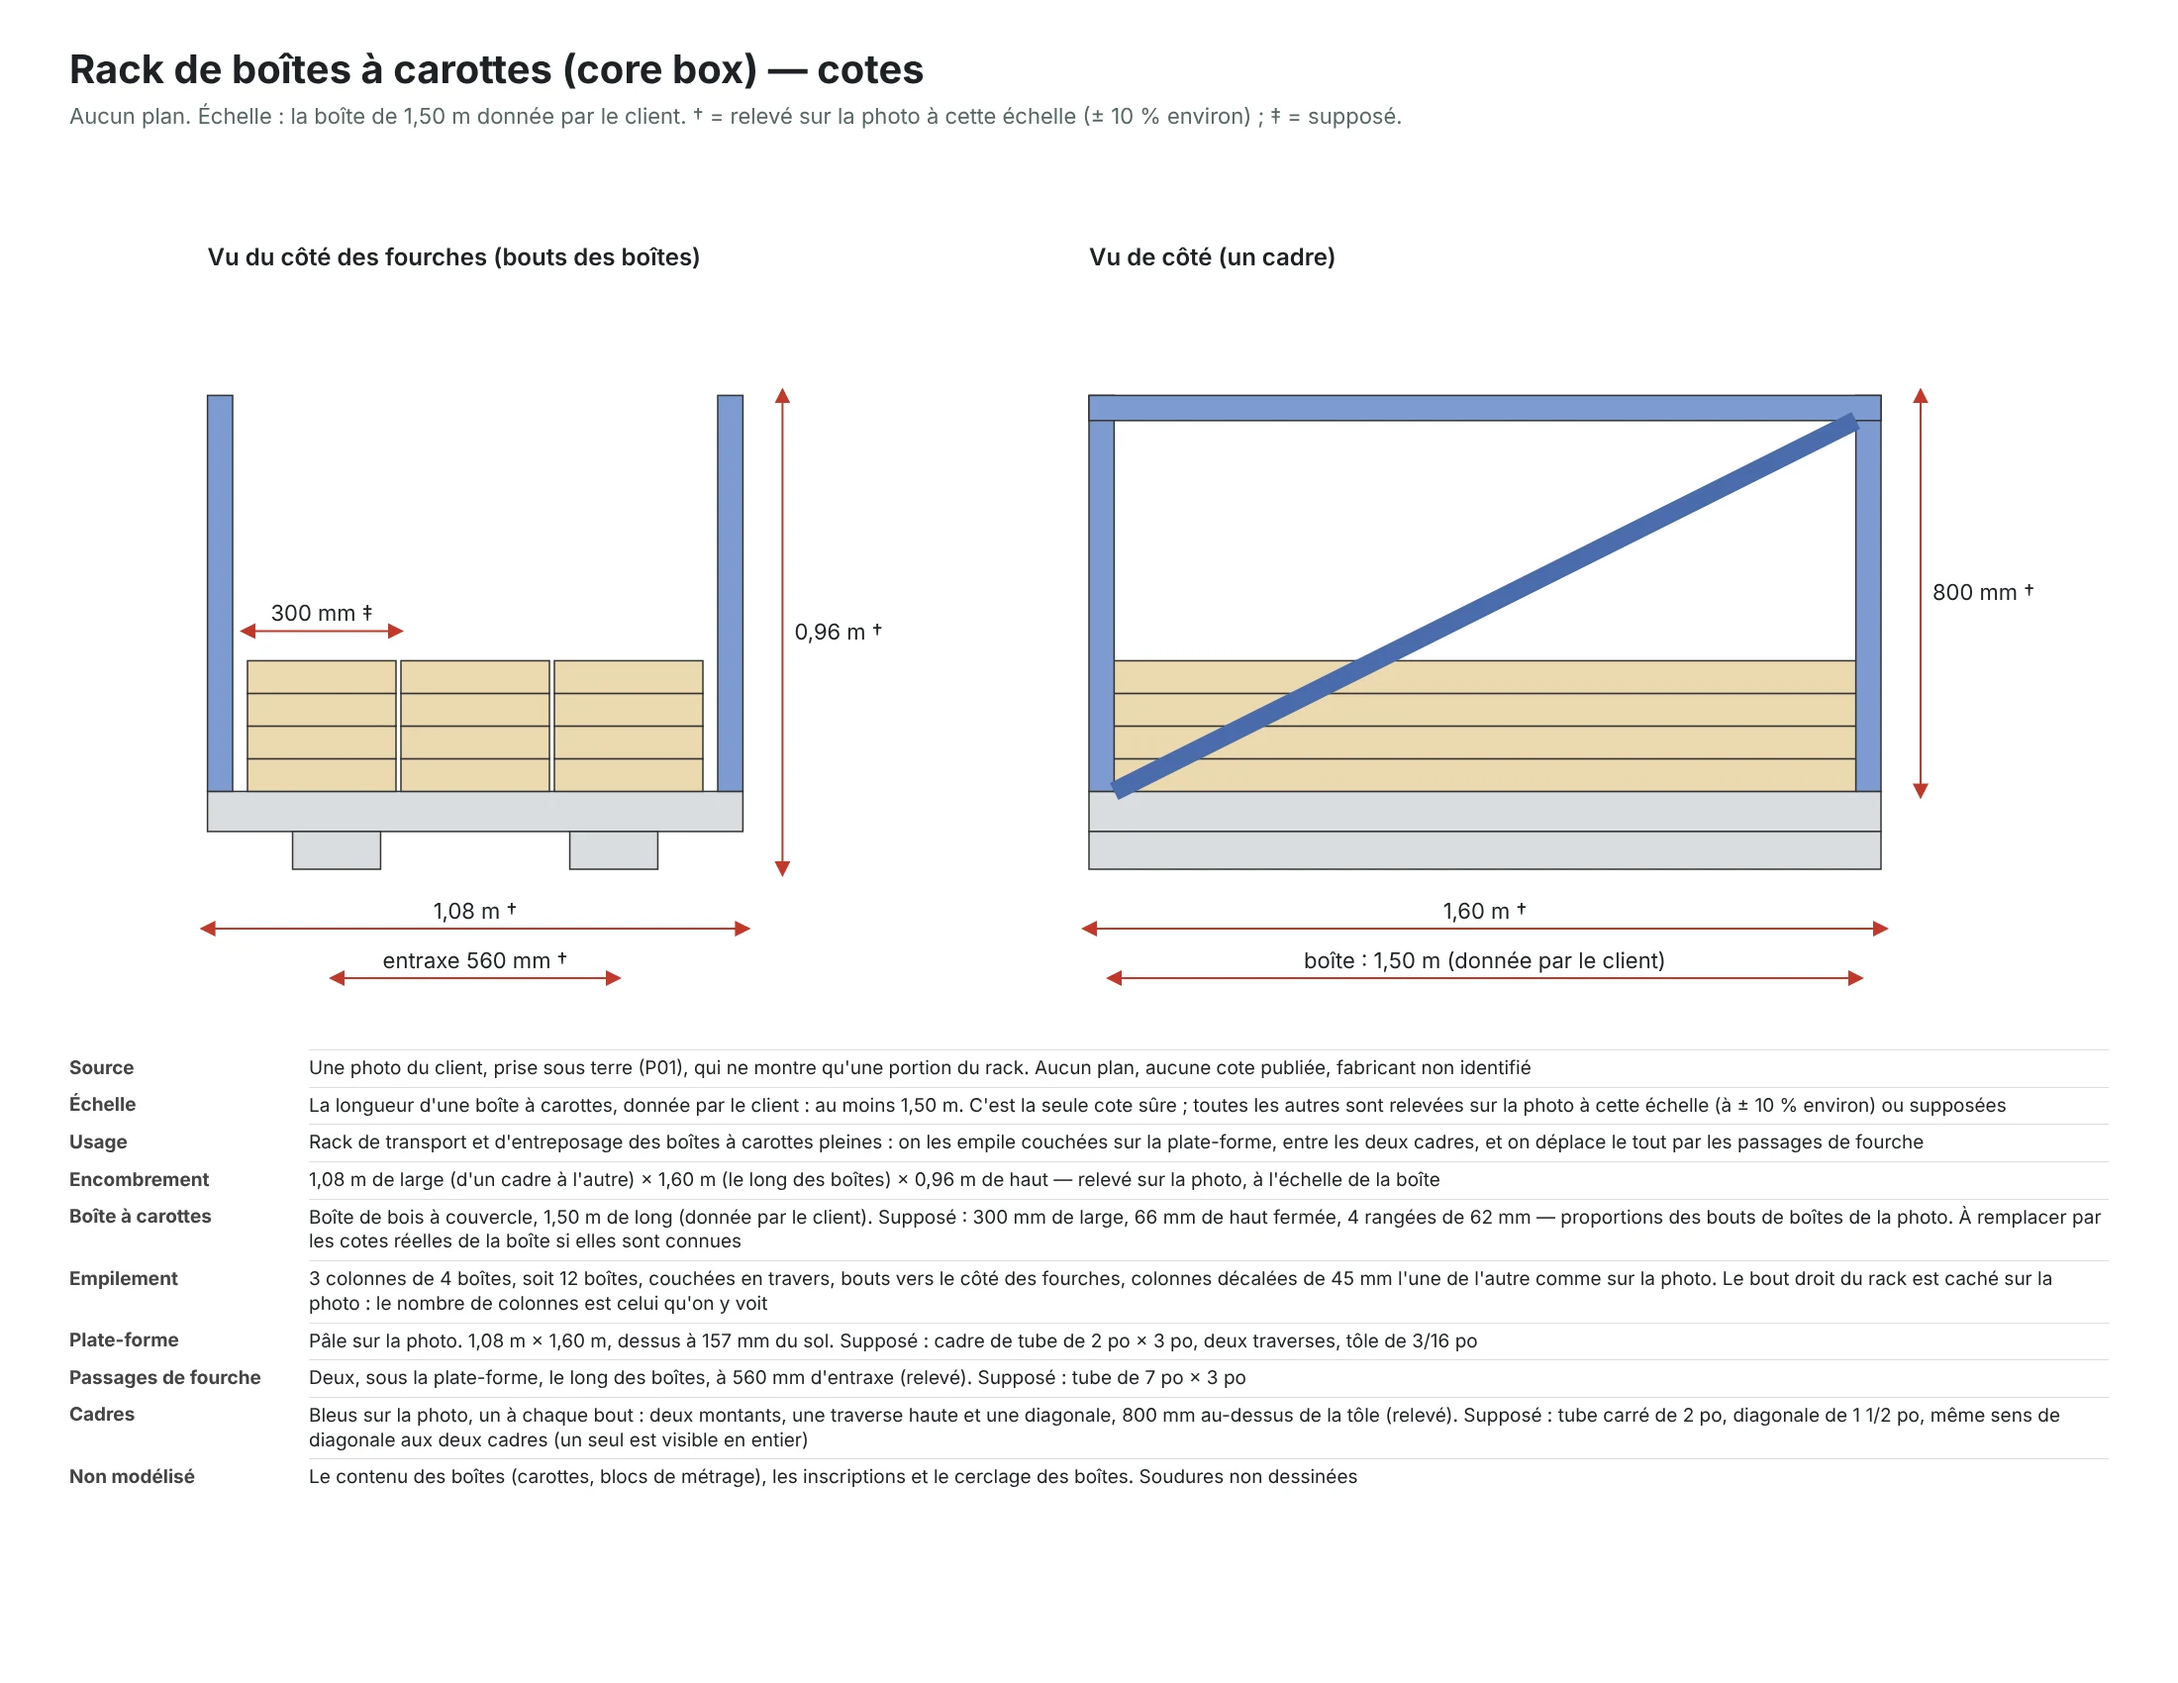
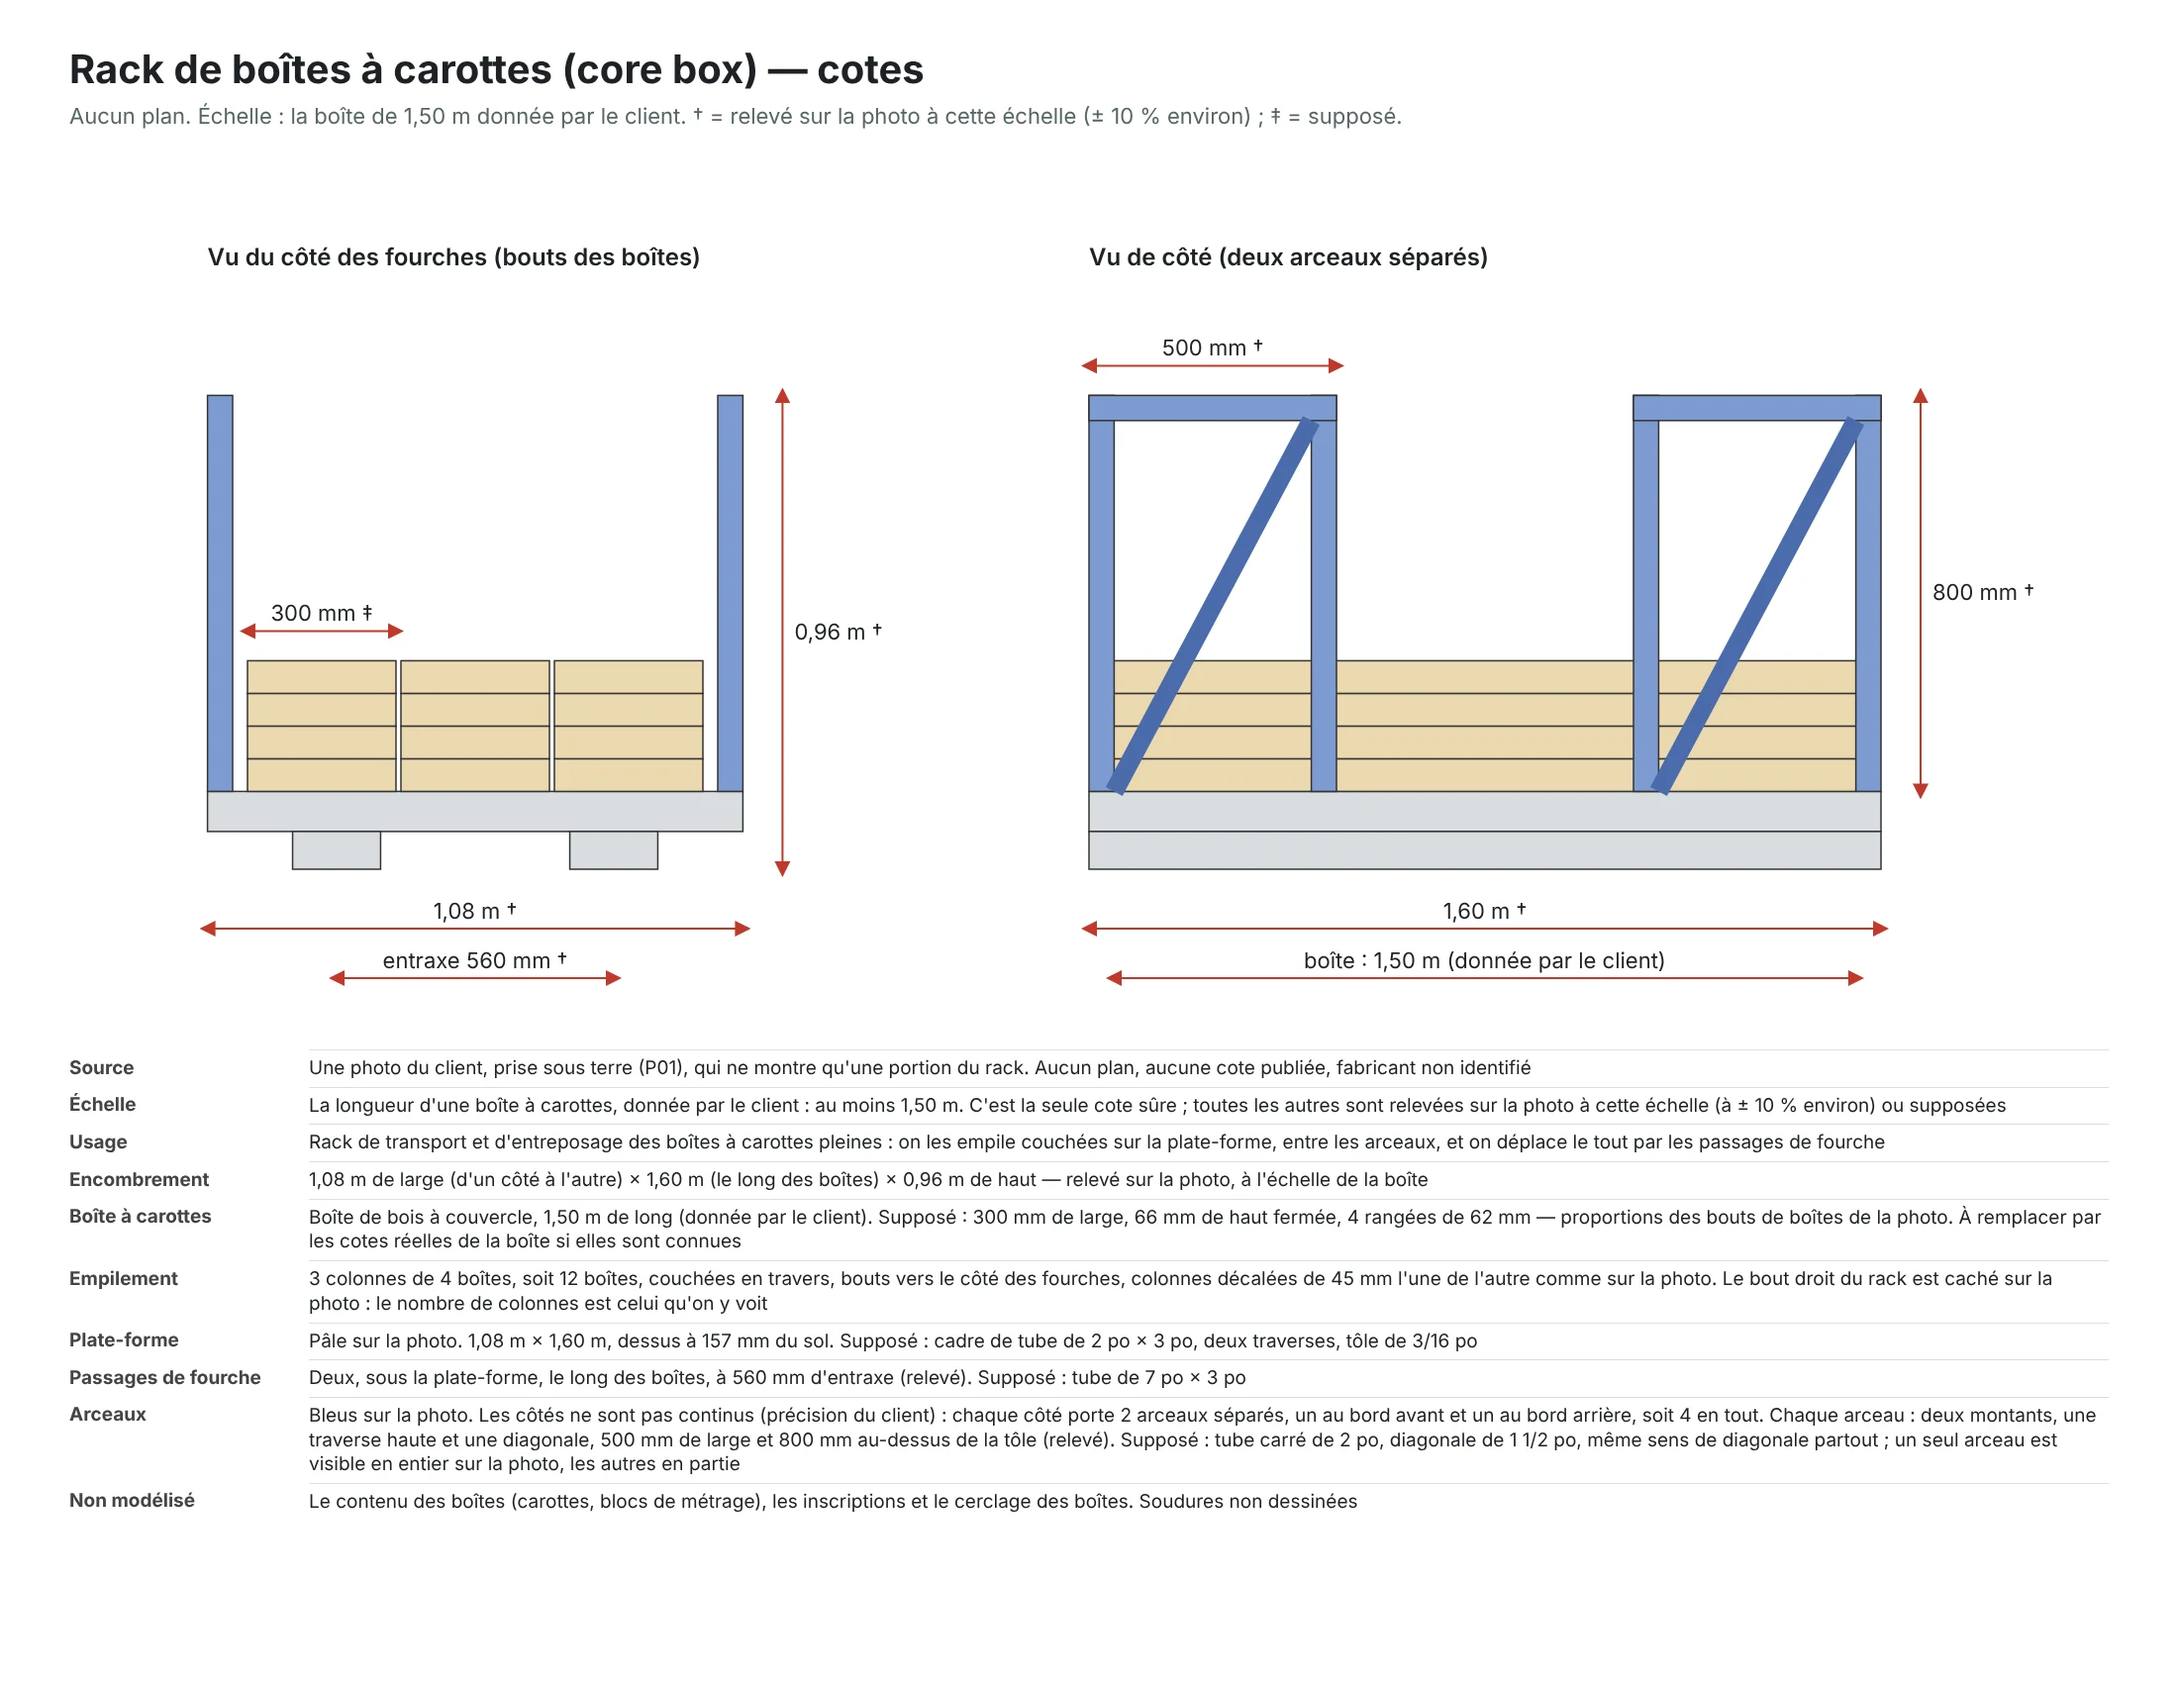
Rack de boîtes à carottes : côtés non continus, deux arceaux séparés par côté (précision du client)
Claude-Session: https://claude.ai/code/session_015N4WssuUmdjikh97GVqZ3B

diff --git a/src/models/rack-core-box/index.js b/src/models/rack-core-box/index.js
@@ -1,6 +1,7 @@
 // Rack de boîtes à carottes (core box) : plate-forme d'acier à passages de
-// fourche, fermée aux deux bouts par un cadre de tube (deux montants, une
-// traverse haute, une diagonale), où l'on empile les boîtes à carottes pleines.
+// fourche, bordée de chaque côté par deux arceaux de tube séparés (chacun :
+// deux montants, une traverse haute, une diagonale) ; les côtés ne sont pas
+// continus (précision du client). On y empile les boîtes à carottes pleines.
 // Reconstitué d'après une photo du client, prise sous terre (P01) : la photo
 // ne montre qu'une portion du rack. Aucun plan, aucune cote publiée.
 //
@@ -9,16 +10,16 @@
 //
 // Relevé sur la photo, à cette échelle (à ± 10 % environ) : les boîtes sont
 // couchées en travers, bouts vers le côté des fourches, en colonnes côte à
-// côte entre les deux cadres ; trois colonnes de quatre boîtes sont visibles,
-// décalées d'une colonne à l'autre ; plate-forme pâle, cadres bleus, deux
-// passages de fourche sous la plate-forme.
+// côte entre les arceaux ; trois colonnes de quatre boîtes sont visibles,
+// décalées d'une colonne à l'autre ; plate-forme pâle, arceaux bleus d'environ
+// 0,5 m de large, deux passages de fourche sous la plate-forme.
 //
 // Supposé : la largeur et la hauteur d'une boîte (boîte de bois à quatre
 // rangées), les sections des tubes, l'épaisseur de la tôle, le sens de la
-// diagonale du cadre que la photo ne montre pas en entier, le nombre total de
-// colonnes (le bout droit du rack est caché).
+// diagonale des arceaux que la photo ne montre pas en entier, le nombre total
+// de colonnes (le bout droit du rack est caché).
 //
-// Repère : X dans la largeur du rack (d'un cadre à l'autre), Y vers le haut
+// Repère : X dans la largeur du rack (d'un côté à l'autre), Y vers le haut
 // (sol à 0), Z le long des boîtes, +Z du côté des bouts de boîtes visibles sur
 // la photo (côté des fourches). Cotes en millimètres, modèle en mètres.
 import * as THREE from 'three';
@@ -42,23 +43,23 @@ export const BOITE = {
 /** Empilement relevé sur la photo : colonnes côte à côte, boîtes par colonne, décalage en Z de chaque colonne. */
 export const PILE = { colonnes: 3, etages: 4, jeu: 10, decalage: [-45, 0, 45] };
 
-/** Tube carré des cadres et tube de la diagonale (supposés). */
+/** Tube carré des arceaux et tube de la diagonale (supposés). */
 export const TUBE = { cote: 2 * IN, diagonale: 1.5 * IN };
 /** Plate-forme : cadre de tube rectangulaire couvert d'une tôle (sections supposées). */
 export const BASE = {
-  jeuCote: 30, // jeu entre la pile et chaque cadre
+  jeuCote: 30, // jeu entre la pile et les arceaux
   profond: 1600, // le long des boîtes : 1,5 m plus le décalage des colonnes
   cadre: { haut: 3 * IN, large: 2 * IN },
   tole: 3 / 16 * IN,
 };
 /** Passages de fourche sous la plate-forme, le long des boîtes (relevés sur la photo, section supposée). */
 export const FOURCHE = { large: 7 * IN, haut: 3 * IN, paroi: 3 / 16 * IN, entraxe: 560 };
-/** Hauteur des cadres au-dessus de la tôle (relevée sur la photo). */
-export const CADRE = { haut: 800 };
+/** Arceaux : hauteur au-dessus de la tôle et largeur hors tout, le long des boîtes (relevées sur la photo) ; deux par côté. */
+export const CADRE = { haut: 800, large: 500, parCote: 2 };
 
 /** Largeur de la pile de boîtes. */
 export const largeurPile = () => PILE.colonnes * BOITE.large + (PILE.colonnes - 1) * PILE.jeu;
-/** Largeur hors tout de la plate-forme (d'un cadre à l'autre, tubes compris). */
+/** Largeur hors tout de la plate-forme (d'un côté à l'autre, tubes compris). */
 export const largeurBase = () => largeurPile() + 2 * BASE.jeuCote + 2 * TUBE.cote;
 /** Hauteur du dessus de la tôle au-dessus du sol. */
 export const dessusTole = () => FOURCHE.haut + BASE.cadre.haut + BASE.tole;
@@ -121,22 +122,22 @@ function passage(S, matiere) {
   return S.group(S.extrude(contour, BASE.profond * MM, matiere, { holes: [trou] }));
 }
 
-/** Repère 3 : montant d'un cadre, debout sur la tôle. */
+/** Repère 3 : montant d'un arceau, debout sur la tôle. */
 function montant(S, matiere) {
   const c = TUBE.cote / 2;
   return S.group(pave(S, -c, c, 0, CADRE.haut - TUBE.cote, -c, c, matiere, 3));
 }
 
-/** Repère 4 : traverse haute d'un cadre, posée sur les deux montants. */
+/** Repère 4 : traverse haute d'un arceau, posée sur ses deux montants. */
 function traverse(S, matiere) {
-  const c = TUBE.cote / 2, D = BASE.profond / 2;
+  const c = TUBE.cote / 2, D = CADRE.large / 2;
   return S.group(pave(S, -c, c, CADRE.haut - TUBE.cote, CADRE.haut, -D, D, matiere, 3));
 }
 
-/** Repère 5 : diagonale d'un cadre, du pied du montant avant à la tête du montant arrière. */
+/** Repère 5 : diagonale d'un arceau, du pied du montant avant à la tête du montant arrière. */
 function diagonale(S, matiere) {
   const c = TUBE.cote, d = TUBE.diagonale / 2;
-  const z0 = BASE.profond / 2 - c, z1 = -BASE.profond / 2 + c, y0 = 0, y1 = CADRE.haut - c;
+  const z0 = CADRE.large / 2 - c, z1 = -CADRE.large / 2 + c, y0 = 0, y1 = CADRE.haut - c;
   // Coupes droites contre la face des montants ; vy : épaisseur du tube mesurée à la verticale.
   const vy = (2 * d) / Math.cos(Math.atan2(y1 - y0, z0 - z1));
   const profil = [[z0, y0], [z0, y0 + vy], [z1, y1], [z1, y1 - vy]].map(([z, y]) => [z * MM, y * MM]);
@@ -181,11 +182,16 @@ export function P01(api) {
 
   put('1', S.at(plateForme(S, PLATE), [0, yBase * MM, 0]), [0, 0, 0]);
   for (const s of [-1, 1]) put('2', S.at(passage(S, PLATE), [(s * FOURCHE.entraxe / 2) * MM, 0, 0]), [0, -0.25, 0]);
+  // Deux arceaux par côté : un au bord avant, un au bord arrière de la plate-forme.
+  const L = CADRE.large / 2;
   for (const s of [-1, 1]) {
-    const x = s * (W - c) * MM, e = [s * 0.35, 0, 0];
-    for (const z of [1, -1]) put('3', S.at(montant(S, BLEU), [x, yTole * MM, z * (D - c) * MM]), [e[0], 0, z * 0.12]);
-    put('4', S.at(traverse(S, BLEU), [x, yTole * MM, 0]), [e[0], 0.25, 0]);
-    put('5', S.at(diagonale(S, BLEU), [x, yTole * MM, 0]), e);
+    const x = s * (W - c) * MM;
+    for (const b of [1, -1]) {
+      const zc = b * (D - L), e = [s * 0.35, 0, b * 0.12];
+      for (const z of [1, -1]) put('3', S.at(montant(S, BLEU), [x, yTole * MM, (zc + z * (L - c)) * MM]), [e[0], 0, e[2] + z * 0.06]);
+      put('4', S.at(traverse(S, BLEU), [x, yTole * MM, zc * MM]), [e[0], 0.25, e[2]]);
+      put('5', S.at(diagonale(S, BLEU), [x, yTole * MM, zc * MM]), e);
+    }
   }
 
   const pas = BOITE.large + PILE.jeu, x0 = -largeurPile() / 2 + BOITE.large / 2, haut = hautBoite();

diff --git a/README.md b/README.md
@@ -934,15 +934,16 @@ pièces (numéro, quantité, page du manuel).
   à partir des cotes du modèle (`src/models/blocs-de-bois/index.js`).
 
 - **Rack de boîtes à carottes (core box)** (`rack-core-box`) : plate-forme
-  d'acier à deux passages de fourche, fermée à chaque bout par un cadre de
-  tube bleu (deux montants, une traverse haute, une diagonale), où l'on empile
-  les boîtes à carottes pleines. Reconstitué d'après une photo du client prise
+  d'acier à deux passages de fourche, bordée de chaque côté par deux arceaux
+  de tube bleu séparés (chacun : deux montants, une traverse haute, une
+  diagonale ; côtés non continus, précision du client), où l'on empile les
+  boîtes à carottes pleines. Reconstitué d'après une photo du client prise
   sous terre (P01), qui ne montre qu'une portion du rack ; aucun plan. Échelle :
   la boîte à carottes de 1,5 m (donnée par le client, minimum). Relevé sur la
   photo à cette échelle : l'encombrement (1,08 × 1,60 × 0,96 m), la hauteur
-  des cadres, l'entraxe des passages de fourche, les 3 colonnes de 4 boîtes
+  et la largeur des arceaux, l'entraxe des passages de fourche, les 3 colonnes de 4 boîtes
   décalées. Supposé : largeur (300 mm) et hauteur (66 mm fermée) de la boîte,
-  sections des tubes, tôle, sens de la diagonale du second cadre. La fiche et
+  sections des tubes, tôle, sens de la diagonale des autres arceaux. La fiche et
   la page des cotes (P02) sont écrites par `tools/rack_core_box_fiche.mjs` à
   partir des cotes du modèle (`src/models/rack-core-box/index.js`).
 
